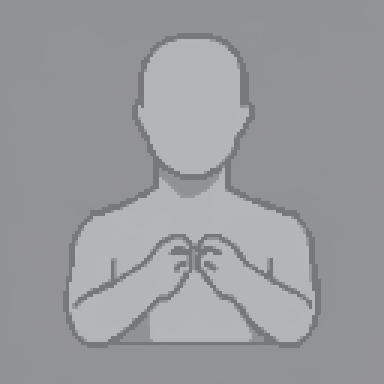
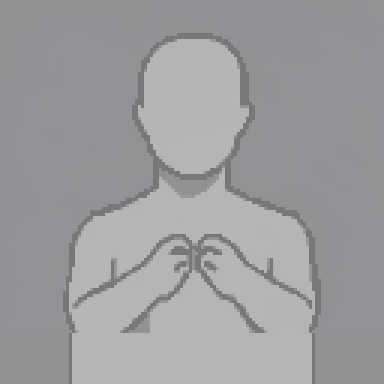
Pose templates: torso extends to the bottom edge (no more figures sunk into the ground); prompt says so too

Changed region(s): [[0.1562, 0.8438, 0.8438, 1.0]]

diff --git a/worker/src/ai.ts b/worker/src/ai.ts
@@ -29,7 +29,9 @@ export const POSE_INSTRUCTION =
 	"Redraw the gray mannequin in image 0 as the character described below. Keep exactly the same pose, " +
 	"body size, head size, head position, arm and hand position and framing as image 0; the gray placeholder " +
 	"object becomes the item named below. The mannequin's blank head always becomes a real face with eyes, eyebrows, " +
-	"nose and mouth. Change only the character, clothing, props and background. Character: ";
+	"nose and mouth. The torso is cropped by the bottom edge of the frame: the body continues down past the " +
+	"bottom of the image, never ends above it, and is never sunk into the ground or floor. Change only the " +
+	"character, clothing, props and background. Character: ";
 
 /** The token's pose template (arms match its item; head and framing identical across all poses). */
 export async function loadPoseTemplate(env: Env, pose?: string): Promise<Uint8Array | undefined> {
